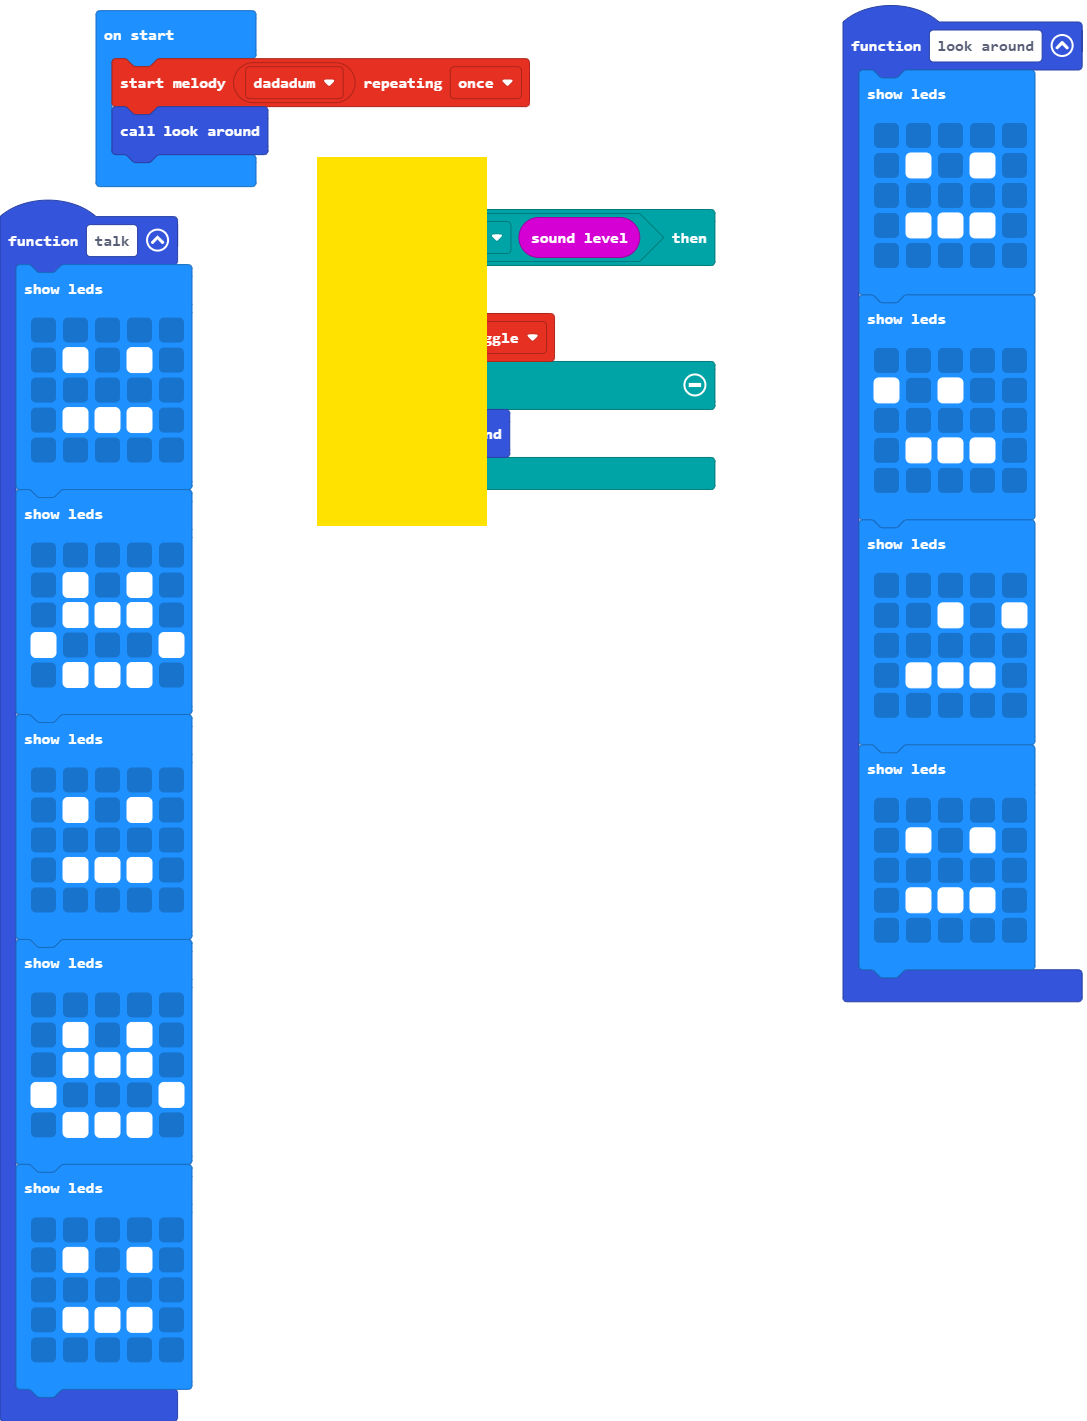
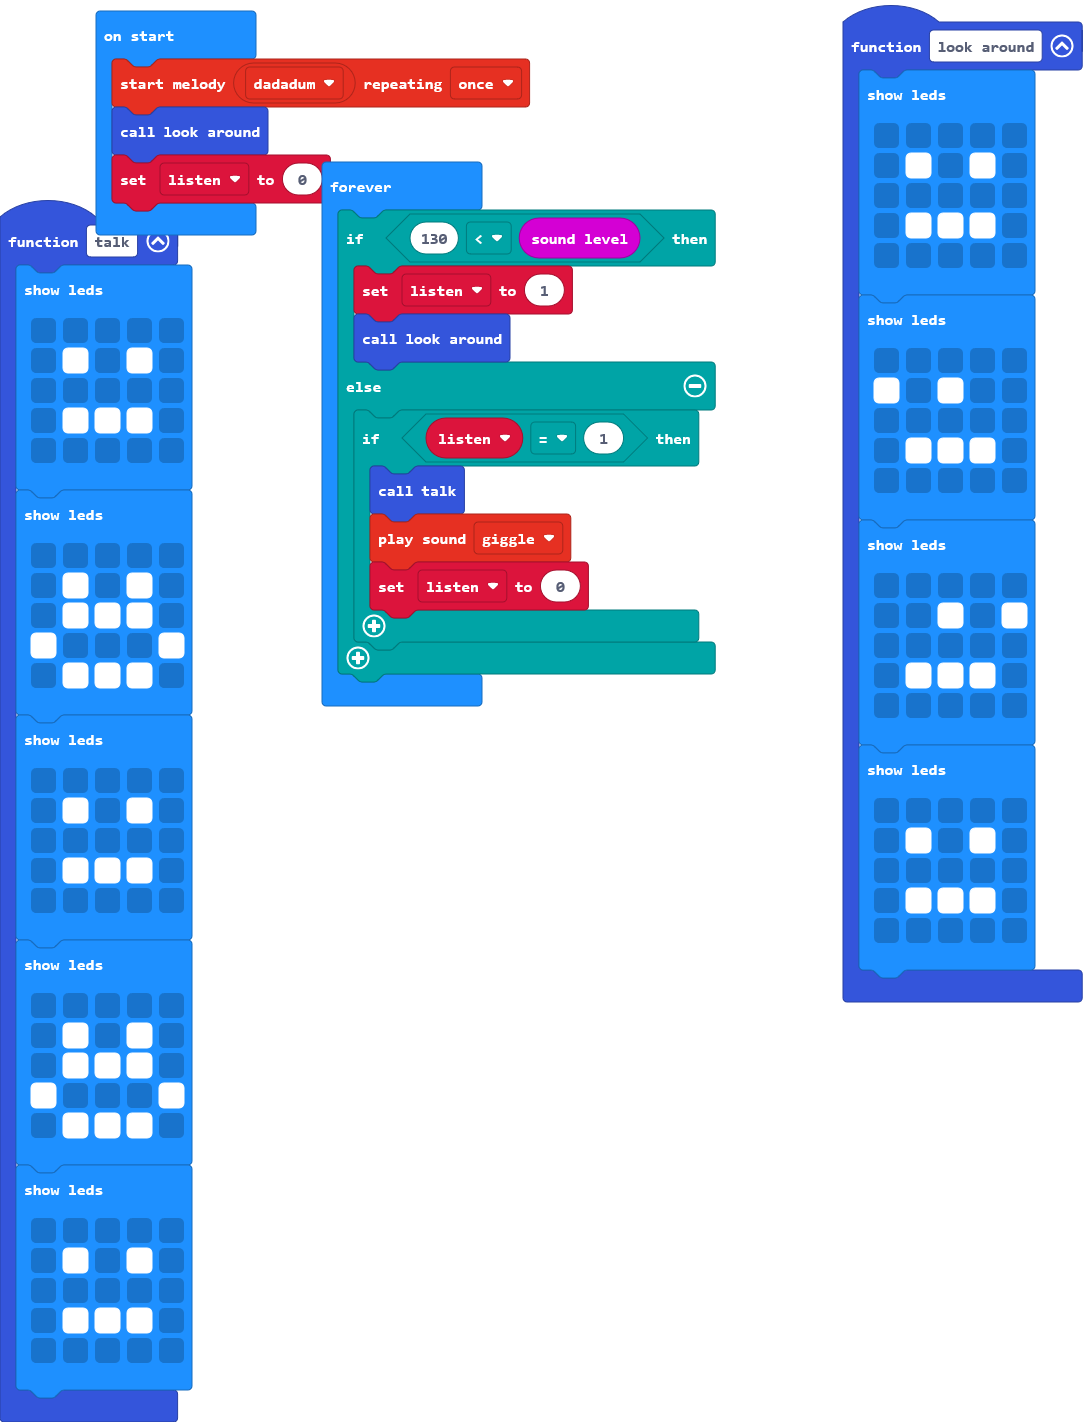
Update main.blocks, main.ts

diff --git a/main.ts b/main.ts
@@ -67,11 +67,16 @@ function talk () {
 }
 music.startMelody(music.builtInMelody(Melodies.Dadadadum), MelodyOptions.Once)
 look_around()
+let listen = 0
 basic.forever(function () {
     if (130 < input.soundLevel()) {
-        talk()
-        soundExpression.giggle.play()
-    } else {
+        listen = 1
         look_around()
+    } else {
+        if (listen == 1) {
+            talk()
+            soundExpression.giggle.play()
+            listen = 0
+        }
     }
 })
